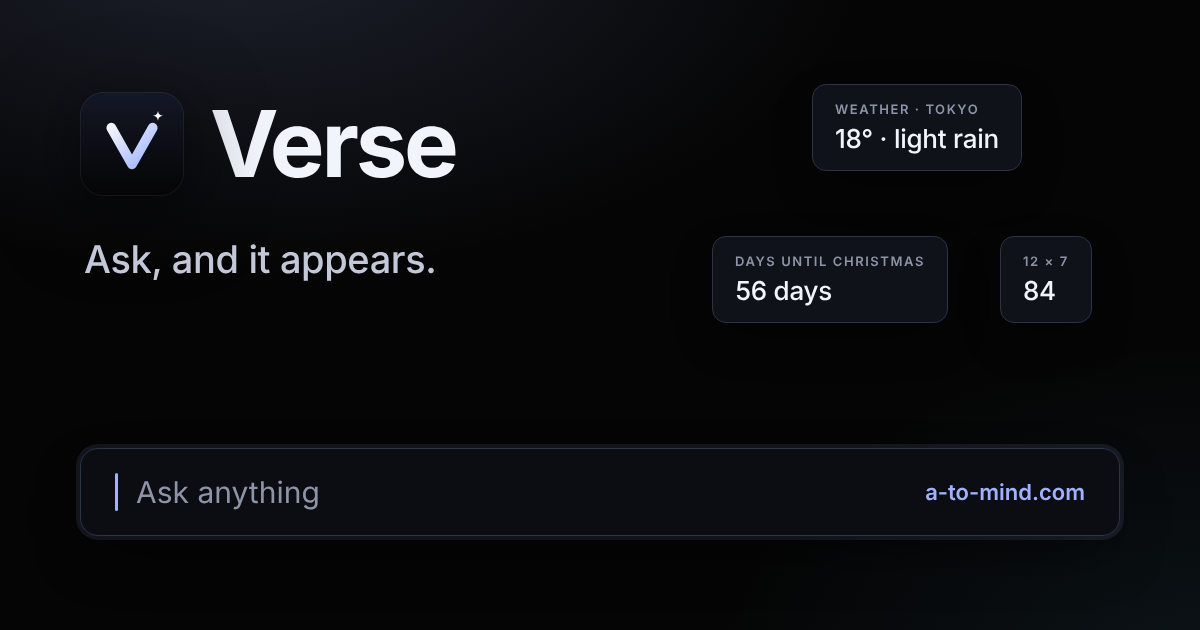
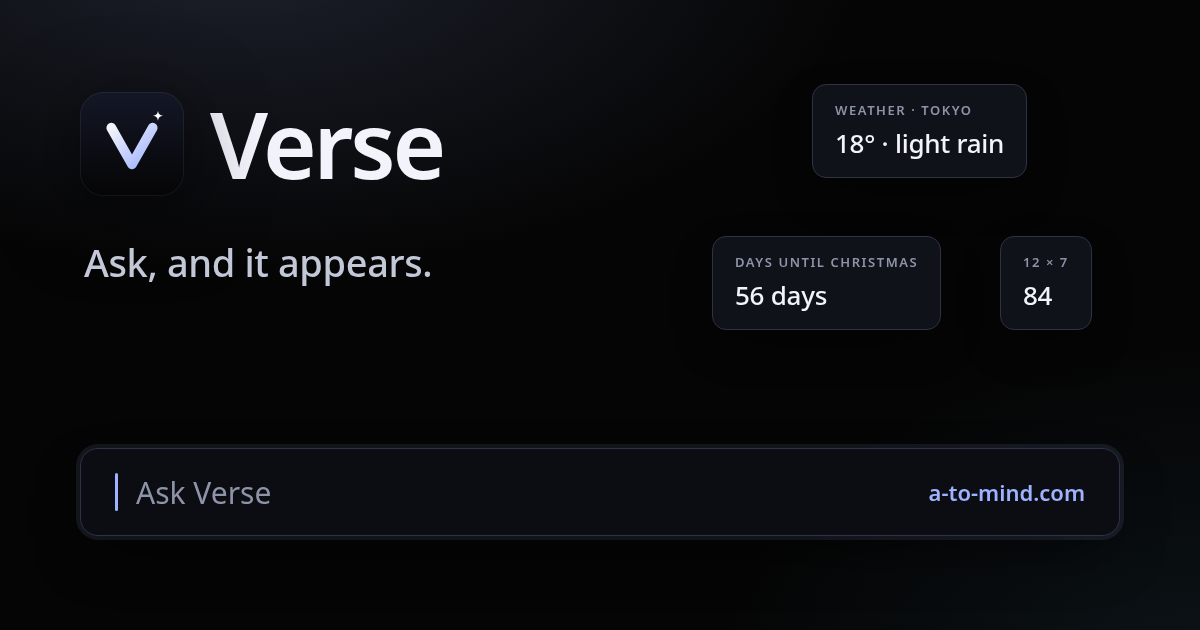
Ask bar: the empty placeholder says Ask Verse
The ready placeholder on the home ask bar, its three page copies, the
runtime empty-state helper, and the share-card image now say Ask Verse
instead of Ask anything. Offline wording, the boards starter line, and
historical handoff notes are unchanged.

diff --git a/void-live-deploy/index.html b/void-live-deploy/index.html
@@ -1163,7 +1163,7 @@
     <div id="hints" role="listbox" aria-label="suggestions"></div>
     <div id="stage-chips" class="stage-chips" aria-label="Workspace inputs" hidden></div>
     <div id="row">
-      <input id="input" aria-label="Ask Verse" autocomplete="off" autocorrect="off" autocapitalize="off" spellcheck="false" writingsuggestions="false" placeholder="Ask anything" data-gramm="false" data-gramm_editor="false" data-enable-grammarly="false" data-lpignore="true" data-1p-ignore data-form-type="other" />
+      <input id="input" aria-label="Ask Verse" autocomplete="off" autocorrect="off" autocapitalize="off" spellcheck="false" writingsuggestions="false" placeholder="Ask Verse" data-gramm="false" data-gramm_editor="false" data-enable-grammarly="false" data-lpignore="true" data-1p-ignore data-form-type="other" />
       <button id="go" type="button" aria-label="Ask" title="Ask">↵</button>
     </div>
     <div id="whisper" aria-live="polite"></div>

diff --git a/void-live-deploy/void.html b/void-live-deploy/void.html
@@ -1163,7 +1163,7 @@
     <div id="hints" role="listbox" aria-label="suggestions"></div>
     <div id="stage-chips" class="stage-chips" aria-label="Workspace inputs" hidden></div>
     <div id="row">
-      <input id="input" aria-label="Ask Verse" autocomplete="off" autocorrect="off" autocapitalize="off" spellcheck="false" writingsuggestions="false" placeholder="Ask anything" data-gramm="false" data-gramm_editor="false" data-enable-grammarly="false" data-lpignore="true" data-1p-ignore data-form-type="other" />
+      <input id="input" aria-label="Ask Verse" autocomplete="off" autocorrect="off" autocapitalize="off" spellcheck="false" writingsuggestions="false" placeholder="Ask Verse" data-gramm="false" data-gramm_editor="false" data-enable-grammarly="false" data-lpignore="true" data-1p-ignore data-form-type="other" />
       <button id="go" type="button" aria-label="Ask" title="Ask">↵</button>
     </div>
     <div id="whisper" aria-live="polite"></div>

diff --git a/void.html b/void.html
@@ -1163,7 +1163,7 @@
     <div id="hints" role="listbox" aria-label="suggestions"></div>
     <div id="stage-chips" class="stage-chips" aria-label="Workspace inputs" hidden></div>
     <div id="row">
-      <input id="input" aria-label="Ask Verse" autocomplete="off" autocorrect="off" autocapitalize="off" spellcheck="false" writingsuggestions="false" placeholder="Ask anything" data-gramm="false" data-gramm_editor="false" data-enable-grammarly="false" data-lpignore="true" data-1p-ignore data-form-type="other" />
+      <input id="input" aria-label="Ask Verse" autocomplete="off" autocorrect="off" autocapitalize="off" spellcheck="false" writingsuggestions="false" placeholder="Ask Verse" data-gramm="false" data-gramm_editor="false" data-enable-grammarly="false" data-lpignore="true" data-1p-ignore data-form-type="other" />
       <button id="go" type="button" aria-label="Ask" title="Ask">↵</button>
     </div>
     <div id="whisper" aria-live="polite"></div>

diff --git a/void-live-deploy/lib/selfcheck.js b/void-live-deploy/lib/selfcheck.js
@@ -42,7 +42,7 @@ export function pageProblems(seen) {
   if (!(s.status >= 200 && s.status < 400)) { add('status', 'answers ' + (s.status || 'nothing')); return out; }
   for (const e of (s.errors || []).slice(0, 2)) add('script', e);
   for (const f of (s.failed || []).slice(0, 3)) add('request', (f.status || 'no answer') + ' ' + f.url);
-  // a page made of a box to type in, a canvas or a picture is not empty (the front page is one prompt: "Ask anything")
+  // a page made of a box to type in, a canvas or a picture is not empty (the front page is one prompt: "Ask Verse")
   if (String(s.text || '').replace(/\s+/g, '').length < 20 && !(s.controls > 0)) add('empty', 'under 20 characters of text and nothing to type in, press or see after it loaded');
   const l = luminance(s.bg); if (l !== null && l > 0.5) add('light', 'background ' + s.bg);
   for (const u of (s.deadLinks || []).slice(0, 3)) add('link', u.status + ' ' + u.url);

diff --git a/void-live-deploy/lib/empty-state.js b/void-live-deploy/lib/empty-state.js
@@ -26,7 +26,7 @@ export function pickSuggestion(list, last, rnd = Math.random) {
 }
 
 export const OFFLINE_PLACEHOLDER = 'offline: skills that need the network will wait';
-export const READY_PLACEHOLDER = 'Ask anything'; // the empty stage has no other words: the bar itself has to say a person can type
+export const READY_PLACEHOLDER = 'Ask Verse'; // the empty stage has no other words: the bar itself has to say a person can type
 
 // The link state, from what the page already sees: the browser's online flag and its own failed requests. Two same-origin requests in a
 // row that never reached the network count as offline; any success (or the browser's `online` event) clears it at once.

diff --git a/docs/playbooks/verse-shell.md b/docs/playbooks/verse-shell.md
@@ -10,6 +10,6 @@
 
 **Motion.** Same-origin view transitions are on in `verse.css`. A scroll-driven settle runs on pages that scroll. The WebGL wash starts after load, skips reduced motion and data saver, and removes itself if WebGL will not start. The CSS horizon stays.
 
-**How to tell it worked.** `node --test tools/verse-shell.test.mjs`. On the home page the ask bar still says Ask anything, the stage under it is empty until someone asks, and the top line names bots and tower wins only after `/api/crew` and `/self.json` answer.
+**How to tell it worked.** `node --test tools/verse-shell.test.mjs`. On the home page the ask bar still says Ask Verse, the stage under it is empty until someone asks, and the top line names bots and tower wins only after `/api/crew` and `/self.json` answer.
 
 **Mistakes.** Do not put suggestion text back on the empty stage. Do not draw a grid floor. Do not fetch `tower.evidence.json` for the one-line count: `self.json` already has `tower.beaten`.
